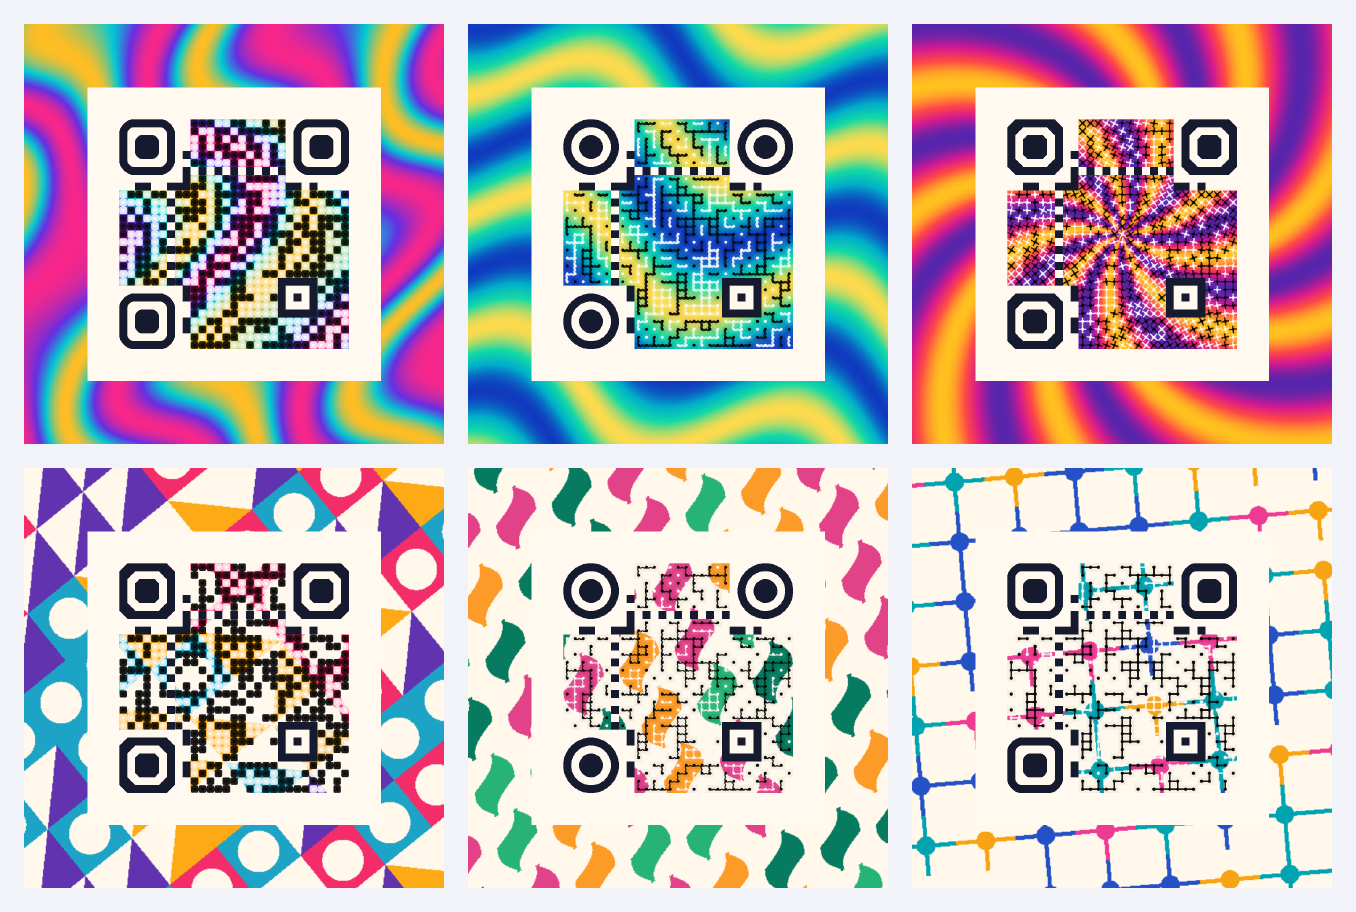
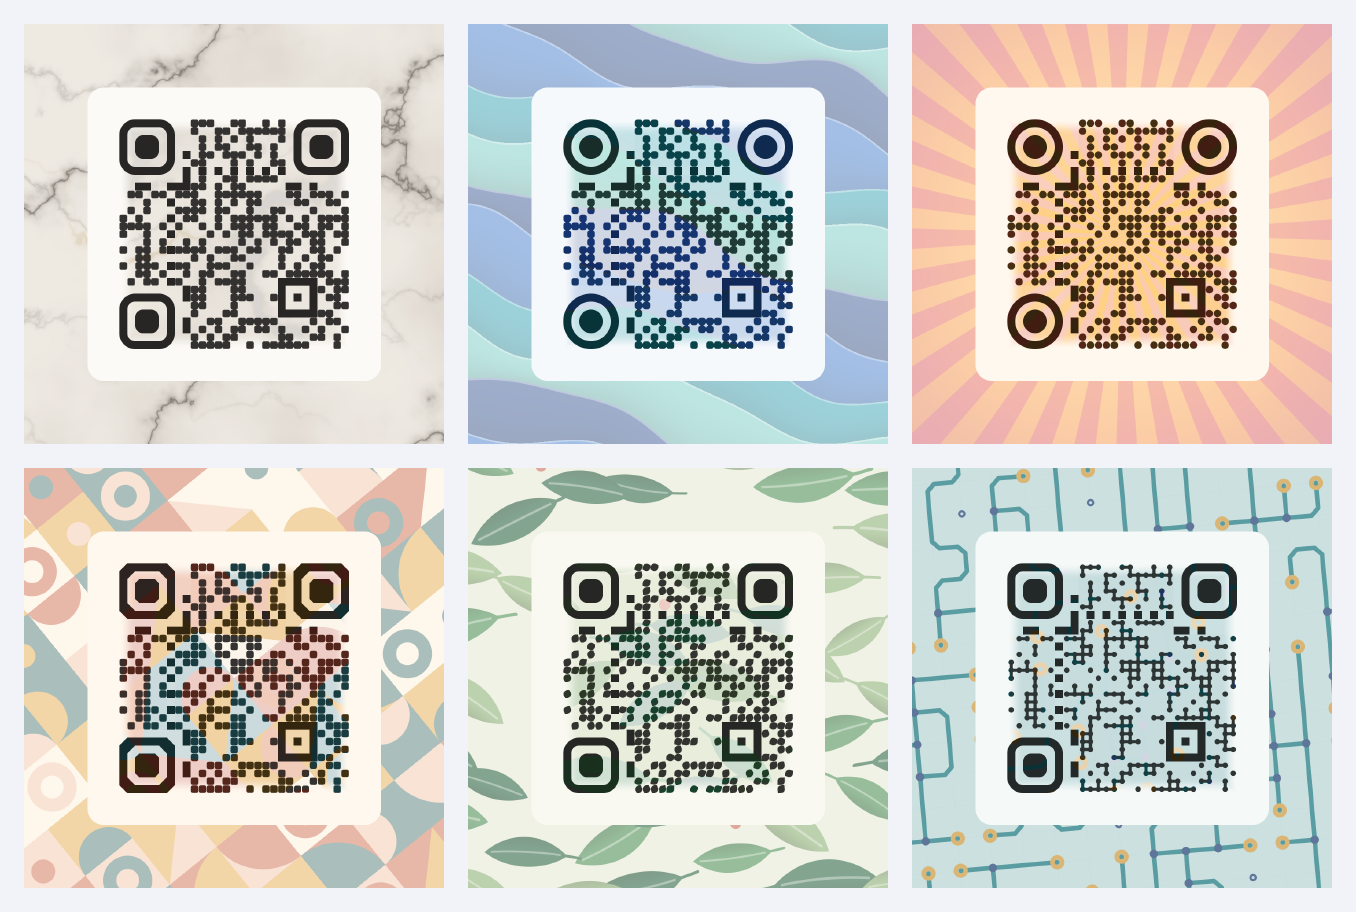
docs(art): 📝 describe the redrawn patterns and scenes
I updated the pattern and scene descriptions, the README notes on tinted
reserved zones, canvas wash, rounded quiet zones, scene backdrops and outline
captions, the example file names, and regenerated the procedural-art and scene
gallery images from the examples.

diff --git a/CodeGlyphX/Rendering/Art/QrSceneOptions.cs b/CodeGlyphX/Rendering/Art/QrSceneOptions.cs
@@ -6,17 +6,17 @@ namespace CodeGlyphX.Rendering.Art;
 
 /// <summary>Locally drawn illustration families; equal inputs reproduce equal artwork.</summary>
 public enum QrSceneStyle {
-    /// <summary>Layered foliage, flowers and a warm sun.</summary>
+    /// <summary>A greenhouse arch framed by monstera, palm fronds and hibiscus.</summary>
     TropicalGarden,
-    /// <summary>Night skyline, glowing windows and circuit traces.</summary>
+    /// <summary>A neon billboard above a night skyline with lit windows.</summary>
     ElectricCity,
-    /// <summary>Records, musical notes and rhythmic ribbons.</summary>
+    /// <summary>A stage screen at sunset with spotlights, speakers and a crowd.</summary>
     MusicFestival,
-    /// <summary>Waves, bubbles, fish and coral.</summary>
+    /// <summary>An air bubble with a fish school, coral and sunlit water.</summary>
     OceanReef,
-    /// <summary>Planets, stars, orbital paths and a rocket.</summary>
+    /// <summary>A ringed moon in deep space with planets and a rocket.</summary>
     CosmicOrbit,
-    /// <summary>Pixel creatures, arcade tiles and geometric sparks.</summary>
+    /// <summary>An arcade panel on a pixel tile grid with sprites and pixel type.</summary>
     RetroArcade
 }
 
@@ -58,7 +58,7 @@ public sealed class QrSceneOptions {
     public Rgba32 Ink { get; set; } = new(20, 32, 53);
     /// <summary>QR data module shape; functional patterns retain protected geometry.</summary>
     public QrModuleShape ModuleShape { get; set; } = QrModuleShape.ConnectedRounded;
-    /// <summary>Portable outlined caption, up to 48 characters. Supports Latin letters, digits, space and -./:()+?.</summary>
+    /// <summary>Caption, up to 48 characters, drawn as outline type (pixel type for RetroArcade). Supports Latin letters, digits, space and -./:()+?.</summary>
     public string Caption { get; set; } = "SCAN ME";
     /// <summary>Optional encoded logo image, at most 1 MiB and one million decoded pixels. It stays outside the protected QR.</summary>
     public byte[]? LogoImage { get; set; }

diff --git a/CodeGlyphX/Rendering/Art/QrArtPatternOptions.cs b/CodeGlyphX/Rendering/Art/QrArtPatternOptions.cs
@@ -6,17 +6,17 @@ namespace CodeGlyphX.Rendering.Art;
 
 /// <summary>Repeatable artwork made from local geometry, without an image service or model.</summary>
 public enum QrArtPattern {
-    /// <summary>Flowing, multicolor marble bands.</summary>
+    /// <summary>Veined stone: soft clouding and turbulent veins in a restrained palette.</summary>
     Marble,
-    /// <summary>Layered waves of color.</summary>
+    /// <summary>Layered swells with pale crests.</summary>
     Waves,
-    /// <summary>Twisting radial rays.</summary>
+    /// <summary>Straight rays radiating from the canvas centre.</summary>
     Sunburst,
-    /// <summary>Colorful triangles and circular tile cutouts.</summary>
+    /// <summary>Bauhaus tiles: quarter and half discs, triangles, rings and dots.</summary>
     Geometric,
-    /// <summary>Leaves and stems on a paper-colored ground.</summary>
+    /// <summary>Overlapping lance leaves with midribs, stems and berries.</summary>
     Botanical,
-    /// <summary>Angular traces and circular junctions.</summary>
+    /// <summary>Circuit traces with 45-degree corners, pads and vias.</summary>
     Circuit
 }
 

diff --git a/CodeGlyphX.Examples/QrProceduralArtExample.cs b/CodeGlyphX.Examples/QrProceduralArtExample.cs
@@ -11,9 +11,9 @@ internal static class QrProceduralArtExample {
         var directory = Path.Combine(outputDir, "qr-procedural-art");
         Directory.CreateDirectory(directory);
         var designs = new[] {
-            ("prismatic-marble", QrArtPattern.Marble), ("tidal-ribbons", QrArtPattern.Waves),
-            ("sunburst-stitch", QrArtPattern.Sunburst), ("confetti-tiles", QrArtPattern.Geometric),
-            ("botanical-weave", QrArtPattern.Botanical), ("electric-circuit", QrArtPattern.Circuit)
+            ("veined-marble", QrArtPattern.Marble), ("layered-waves", QrArtPattern.Waves),
+            ("sunburst-rays", QrArtPattern.Sunburst), ("bauhaus-tiles", QrArtPattern.Geometric),
+            ("botanical-leaves", QrArtPattern.Botanical), ("circuit-traces", QrArtPattern.Circuit)
         };
         var images = new List<QrImageComposition>();
         for (var i = 0; i < designs.Length; i++) {

diff --git a/README.md b/README.md
@@ -376,13 +376,13 @@ SVG exports are self-contained **hybrid images**: framing is vector geometry and
 
 ### Procedural art
 
-![Six locally drawn QR designs: marble, waves, sunburst, geometric tiles, botanical weave and circuits](https://raw.githubusercontent.com/EvotecIT/CodeGlyphX/892b6fb815bfcb1b794789aa9d74ca1b3b67bb22/Assets/Examples/qr-procedural-art-gallery.png)
+![Six locally drawn QR designs: veined marble, layered waves, sunburst rays, Bauhaus tiles, leaves and circuit traces](https://raw.githubusercontent.com/EvotecIT/CodeGlyphX/892b6fb815bfcb1b794789aa9d74ca1b3b67bb22/Assets/Examples/qr-procedural-art-gallery.png)
 
-`QrArt.ComposePattern` creates artwork from geometry and a palette, with no source image, model, network request or graphics dependency. Choose `Marble`, `Waves`, `Sunburst`, `Geometric`, `Botanical` or `Circuit`; set the seed to reproduce the design. Pattern density, rotation, two to sixteen opaque palette colors, and the paper color are configurable. The paper color applies to the three tiled patterns.
+`QrArt.ComposePattern` creates artwork from geometry and a palette, with no source image, model, network request or graphics dependency. Choose `Marble`, `Waves`, `Sunburst`, `Geometric`, `Botanical` or `Circuit`; set the seed to reproduce the design. Pattern density, rotation, two to sixteen opaque palette colors, and the paper color are configurable. The paper color applies to the three tiled patterns. Every motif is drawn from signed distances, so edges stay antialiased at any size.
 
 The browser art studio starts with six colorful presets. Edit the seed, density, rotation, four palette colors and paper color, then compare alternatives. Treatment, finder frames, color strength, module scale, detail protection and export resolution are adjustable. Switch to an uploaded image for focal-region and mask controls, or add an illustrated frame for PNG and hybrid SVG exports. Each result retains its original payload for later delivery checks.
 
-`QrArtPatternPresets` supplies editable palette and composition settings for each family. `QrArt.RenderPatternPng` renders the source artwork alone, so a preview and mask/layout search can use exactly the same pixels:
+`QrArtPatternPresets` supplies editable palette and composition settings for each family. The presets keep three or four related hues, carry the art through the finder, timing and format zones as deep and pale tints (`QrImageArtOptions.FunctionalTint`), wash the surrounding canvas (`QrImageCanvasOptions.ArtOpacity`) and round the quiet zone (`CornerRadiusModules`). The quiet zone itself always stays a solid light colour. `QrArt.RenderPatternPng` renders the source artwork alone, so a preview and mask/layout search can use exactly the same pixels:
 
 ```csharp
 var pattern = QrArtPatternPresets.CreatePatternOptions(QrArtPattern.Marble, seed: 2026);
@@ -430,7 +430,7 @@ The [procedural-art example](https://github.com/EvotecIT/CodeGlyphX/blob/master/
 
 ![Six illustrated QR scenes: tropical garden, electric city, music festival, ocean reef, cosmic orbit and retro arcade](https://raw.githubusercontent.com/EvotecIT/CodeGlyphX/892b6fb815bfcb1b794789aa9d74ca1b3b67bb22/Assets/Examples/qr-scene-gallery.png)
 
-`QrArt.ComposeScene` draws complete posters from seeded geometry. Each scene has five editable layers: backdrop, illustrations, QR, caption and an optional logo. Move, scale, rotate or hide decorative layers; QR rotation uses quarter turns. The QR renders above the artwork with protected functional patterns and a complete four-module quiet zone. Placement that clips the QR is rejected.
+`QrArt.ComposeScene` draws complete posters from seeded geometry. Each scene has five editable layers: backdrop, illustrations, QR, caption and an optional logo. Move, scale, rotate or hide decorative layers; QR rotation uses quarter turns. The QR renders above the artwork with protected functional patterns and a complete four-module quiet zone. Each scene holds the code in a light backdrop that is part of the illustration (an arch, a billboard, a stage screen, a bubble, a moon or an arcade panel) and follows the QR placement. Placement that clips the QR is rejected.
 
 ```csharp
 using CodeGlyphX;
@@ -450,13 +450,13 @@ QrArt.ComposeScene(recipe.Payload, recipe.Design).SavePng("ocean-reopened.png");
 
 The browser art studio's **Illustrated scene** source offers six presets, palette and layer controls, logo upload, undo/reset, and recipe save/load. Downloaded results retain the payload and design used to render them. Editing controls does not change a completed export.
 
-Recipes are versioned local XML documents capped at 2 MiB of text. They copy settings and any embedded logo, preserve UTF-8 payloads including control characters, and reject DTDs, external resources and unknown fields. Logo input is limited to 1 MiB and one million decoded pixels. Captions use the portable outlined font: Latin letters, digits, spaces and `-./:()+?`; lowercase letters render as capitals. Paper and QR ink must meet the documented light/dark luminance limits.
+Recipes are versioned local XML documents capped at 2 MiB of text. They copy settings and any embedded logo, preserve UTF-8 payloads including control characters, and reject DTDs, external resources and unknown fields. Logo input is limited to 1 MiB and one million decoded pixels. Captions are real outline type in the canvas caption face (RetroArcade keeps seamless pixel type) and accept Latin letters, digits, spaces and `-./:()+?`; lowercase letters render as capitals. Paper and QR ink must meet the documented light/dark luminance limits.
 
 Run the [scene-gallery example](https://github.com/EvotecIT/CodeGlyphX/blob/master/CodeGlyphX.Examples/QrSceneGalleryExample.cs) with `CODEGLYPHX_SCENE_GALLERY=1` to export all six scenes, thumbnails and recipes. `CODEGLYPHX_OUTPUT_DIR` selects the output folder. Check the actual PNG with `QrArt.ValidateImage` and qualify delivery sizes and target devices before distribution; these software checks do not certify physical printing or phone cameras.
 
 ### Scene exports and delivery sizes
 
-Finished scenes export illustration polygons and caption outlines to SVG. QR contours follow the canonical PNG renderer's pixel reference grid, including connected modules and protected functional patterns. They remain vector paths at any zoom; fine contour steps reflect the selected reference resolution. Uploaded logos are normalized to bounded embedded PNGs. SVGs contain no external image or font references.
+Finished scenes export illustration shapes, gradients and caption outlines to SVG. QR contours follow the canonical PNG renderer's pixel reference grid, including connected modules and protected functional patterns. They remain vector paths at any zoom; fine contour steps reflect the selected reference resolution. Uploaded logos are normalized to bounded embedded PNGs. SVGs contain no external image or font references.
 
 ```csharp
 var print = scene.Export(new QrSceneExportOptions {
